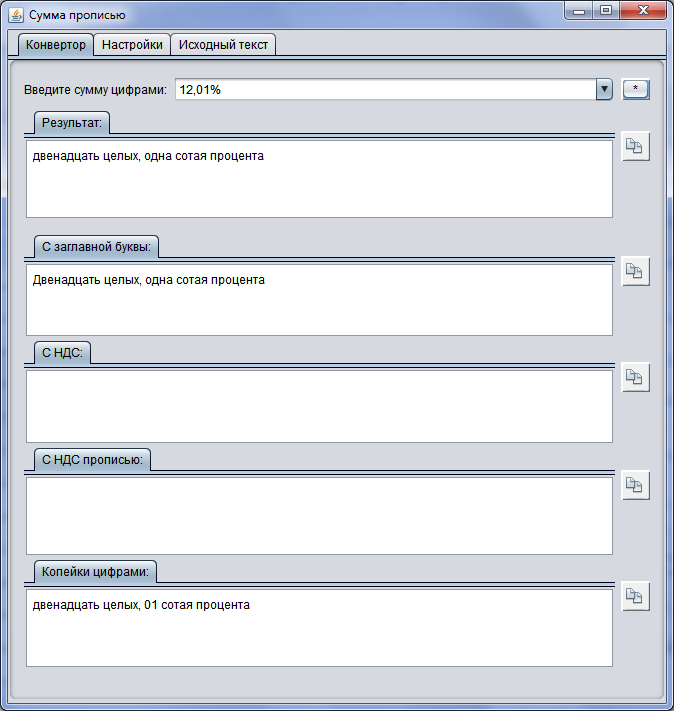
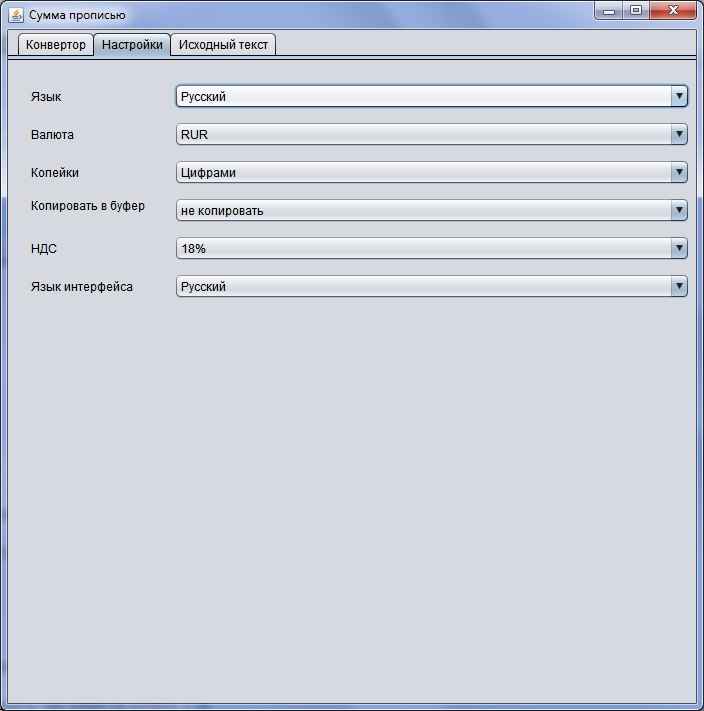
Fixed default VAT value to the 18%

diff --git a/src/main/java/com/github/moneytostr/MoneyToStrApp.java b/src/main/java/com/github/moneytostr/MoneyToStrApp.java
@@ -252,7 +252,7 @@ public class MoneyToStrApp extends javax.swing.JFrame {
             index4 = "0";
         }
         if (index5 == null) {
-            index5 = "1";
+            index5 = "2";
         }
         if (index6 == null) {
             index6 = "0";
@@ -606,6 +606,7 @@ public class MoneyToStrApp extends javax.swing.JFrame {
         jLabel6.setText(bundle.getString("vat")); // NOI18N
 
         jComboBox5.setModel(new javax.swing.DefaultComboBoxModel(new String[] { "10%", "12%", "18%", "20%", "22%", "25%" }));
+        jComboBox5.setSelectedIndex(2);
         jComboBox5.addActionListener(new java.awt.event.ActionListener() {
             public void actionPerformed(java.awt.event.ActionEvent evt) {
                 jComboBox5ActionPerformed(evt);
